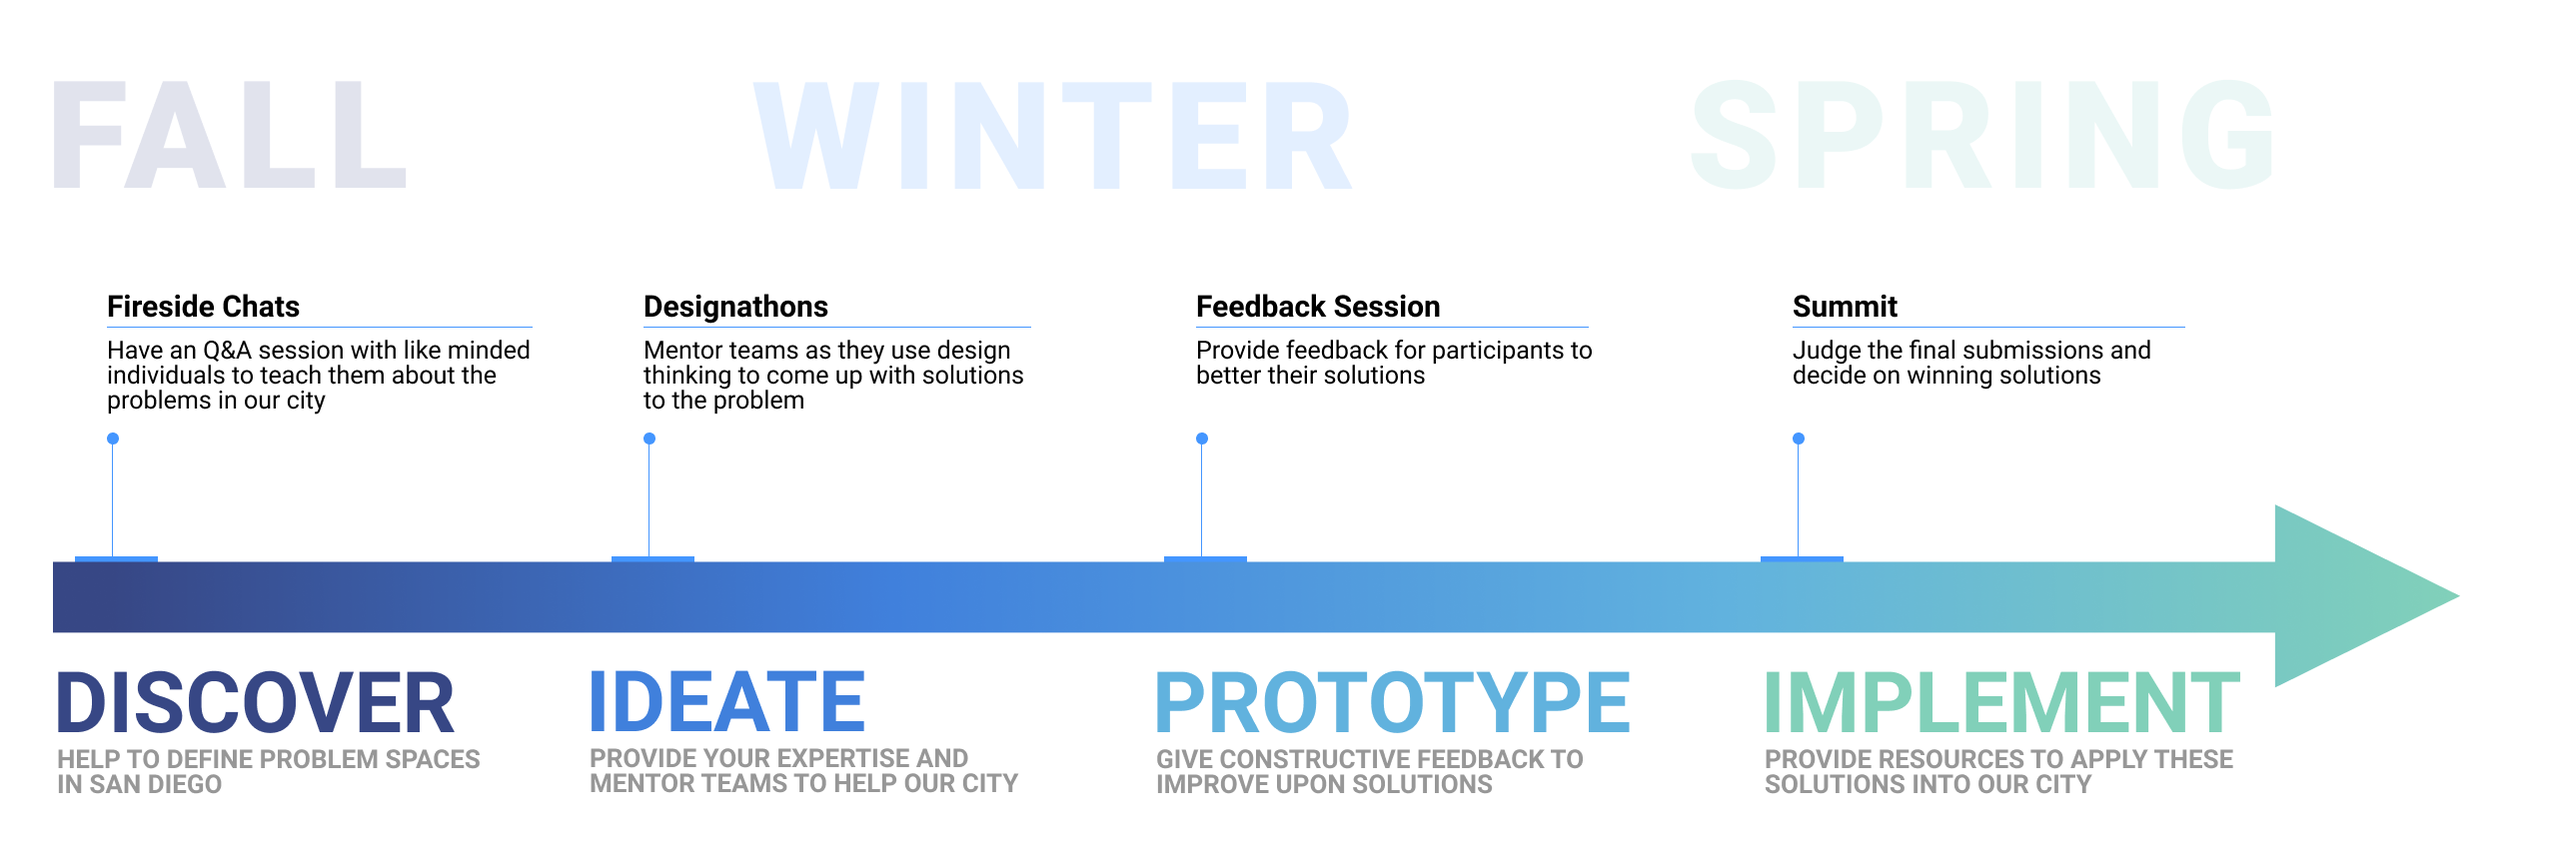
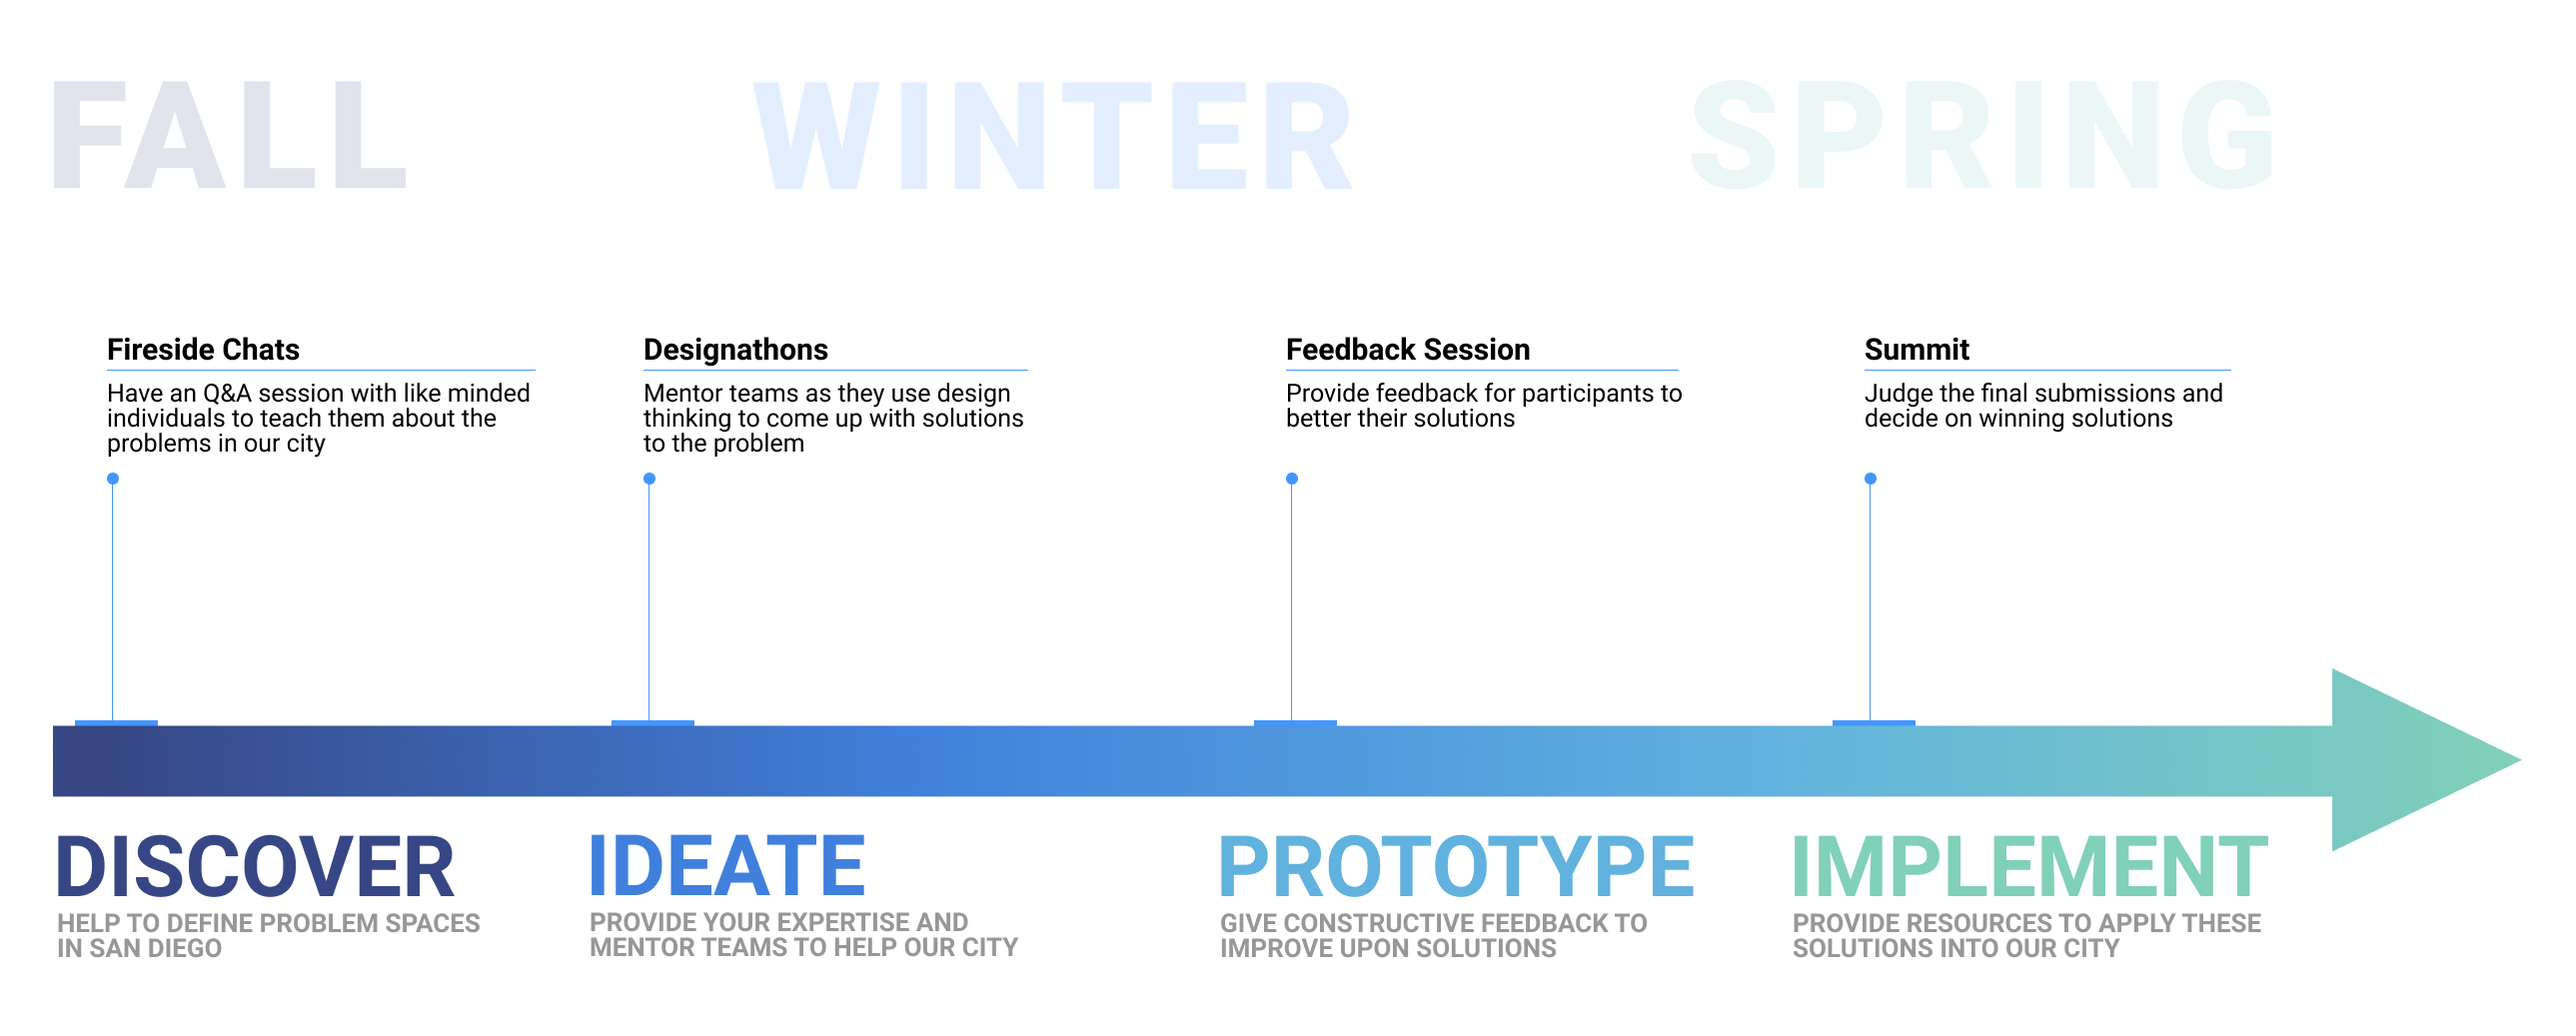
fixed timeline sizes

diff --git a/src/components/landing/FooterCard.js b/src/components/landing/FooterCard.js
@@ -1,0 +1,15 @@
+import React, { Component } from 'react';
+import '../style.css';
+
+class FooterCard extends Component {
+
+  render() {
+    return (
+      <div id="header-card" className="d-flex justify-content-center align-items-center">
+          <h2>{this.props.title}</h2>
+      </div>
+    );
+  }
+}
+
+export default HeaderCard;
